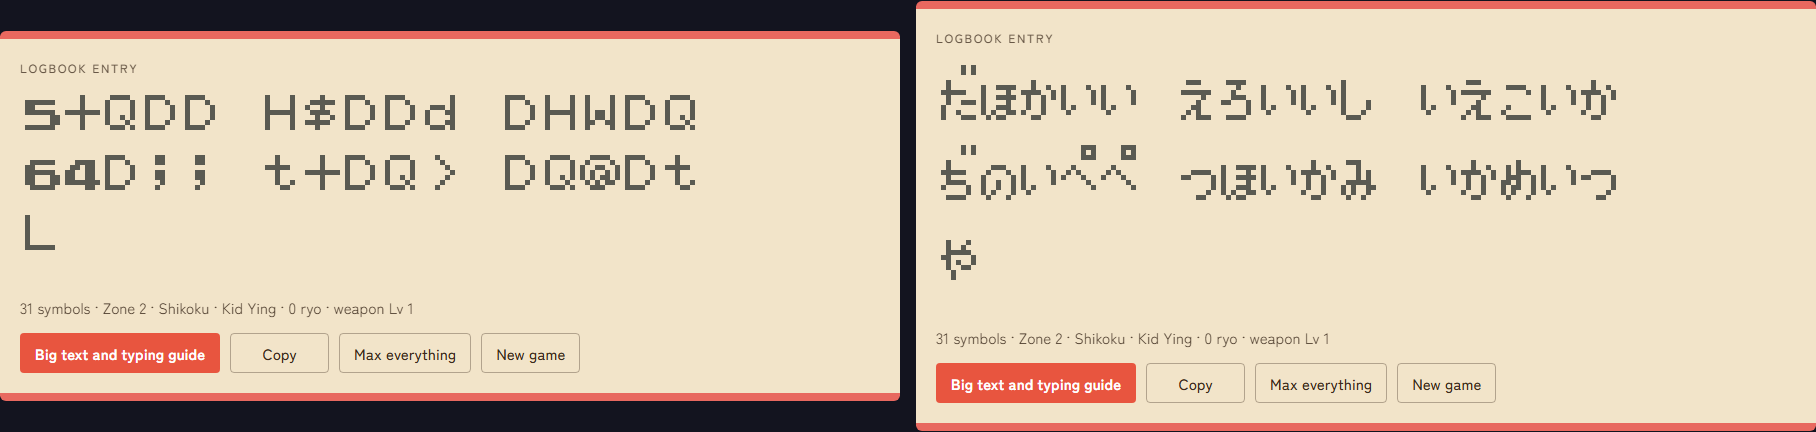
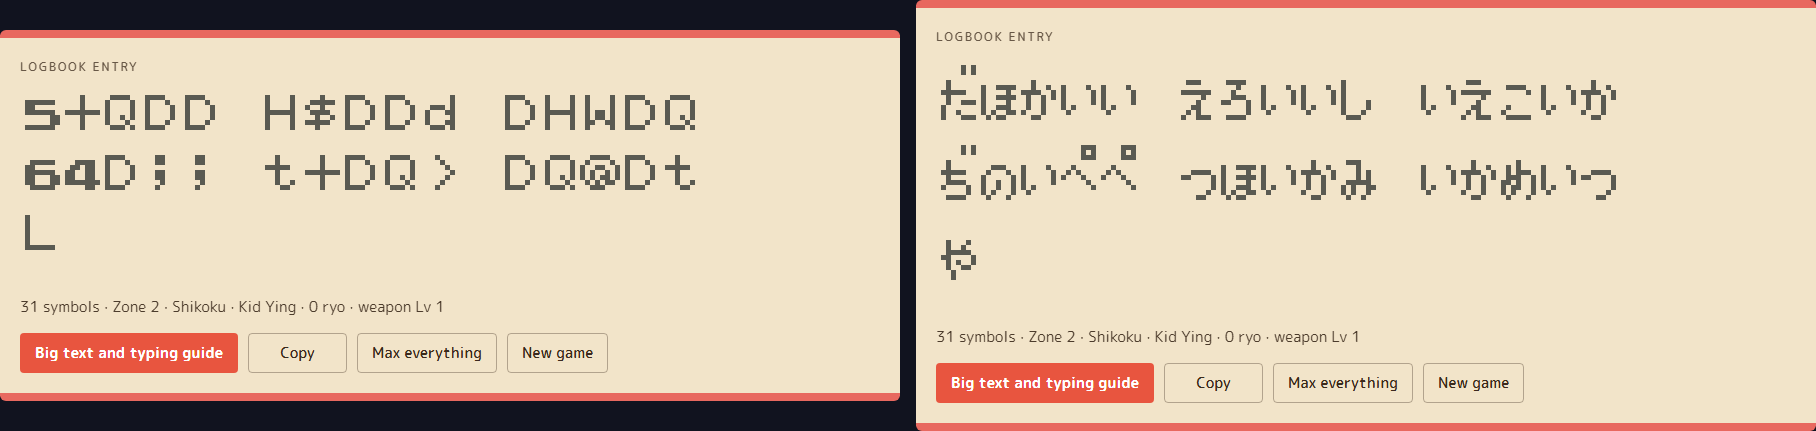
README: A or Y deletes, mkpw.mjs in files, fresh page screenshot
Drop a repeated sentence in the kana section and retake the page
screenshot with the current fonts.

diff --git a/README.md b/README.md
@@ -23,7 +23,7 @@ The US, US Virtual Console, European and German releases all take the same logbo
 ## How to use a logbook
 
 1. On the title screen, choose **CONTINUE**, then **FROM LOGBOOK ENTRY**.
-2. Type the symbols: B types one, Y deletes. Upper and lower case are different symbols, and there's no O or I. The generator's decoder fixes common mix-ups like o/0, I/l and K/k.
+2. Type the symbols: B types one, A or Y deletes. Upper and lower case are different symbols, and there's no O or I. The generator's decoder fixes common mix-ups like o/0, I/l and K/k.
 3. Move to **END** and press B.
 
 On the Japanese release: choose **つづきをあそぶ**, then **たびにっきを つけたところから**. B types a kana, A or Y deletes, and **おわり** ends. Set the page's Game version to Japan 1.1–1.2 or Japan 1.0 first. Short codes work on every revision; if a full logbook fails, try the other Japanese setting.
@@ -140,7 +140,7 @@ Short codes are the same on every Japanese revision. The full logbooks below wer
 
 The page's Game version switch converts any other code.
 
-Checked by comparing the logbook code byte for byte and by loading the same logbooks in each release. The page's Game version switch shows and reads logbooks in kana for the Japanese releases.
+The regions were checked by comparing the logbook code byte for byte and by loading the same logbooks in each release.
 
 ## The cast
 
@@ -201,7 +201,7 @@ Item names are the ones on the in-game PROPERTY screen (Select, L or R during pl
 | `tools/disasm.py`, `tools/lin65.py` | Recursive and linear 65816 disassemblers (from the NBA Jam project) |
 | `tools/cdl2entries.py`, `tools/emu/mesen.py` | Feed Mesen 2's code/data log into the disassembler; run Mesen Lua scripts headless |
 | `tools/lz.py` | Unpacks the game's compressed graphics and tilemaps (format in `docs/secrets.md`); `python tools/lz.py` runs its self-check |
-| `tools/emu/loadcode.sh` | Load a logbook in Mesen (injected, or typed with real presses via `typeguide.mjs`) and dump a screenshot and RAM. `state.mjs` builds test logbooks; `randcodes.mjs` checks random ones against RAM |
+| `tools/emu/loadcode.sh` | Load a logbook in Mesen (injected by `mkpw.mjs`, or typed with real presses via `typeguide.mjs`) and dump a screenshot and RAM. `state.mjs` builds test logbooks; `randcodes.mjs` checks random ones against RAM |
 | `disasm/` | Listings of the US ROM (about 10% traced as code); `entries.txt` holds addresses seen running in Mesen |
 | `docs/secrets.md` | Research notes |
 | `img/logo.png`, `img/favicon.png` | The title-screen logo and Kid Ying's HUD face (tab icon) |
